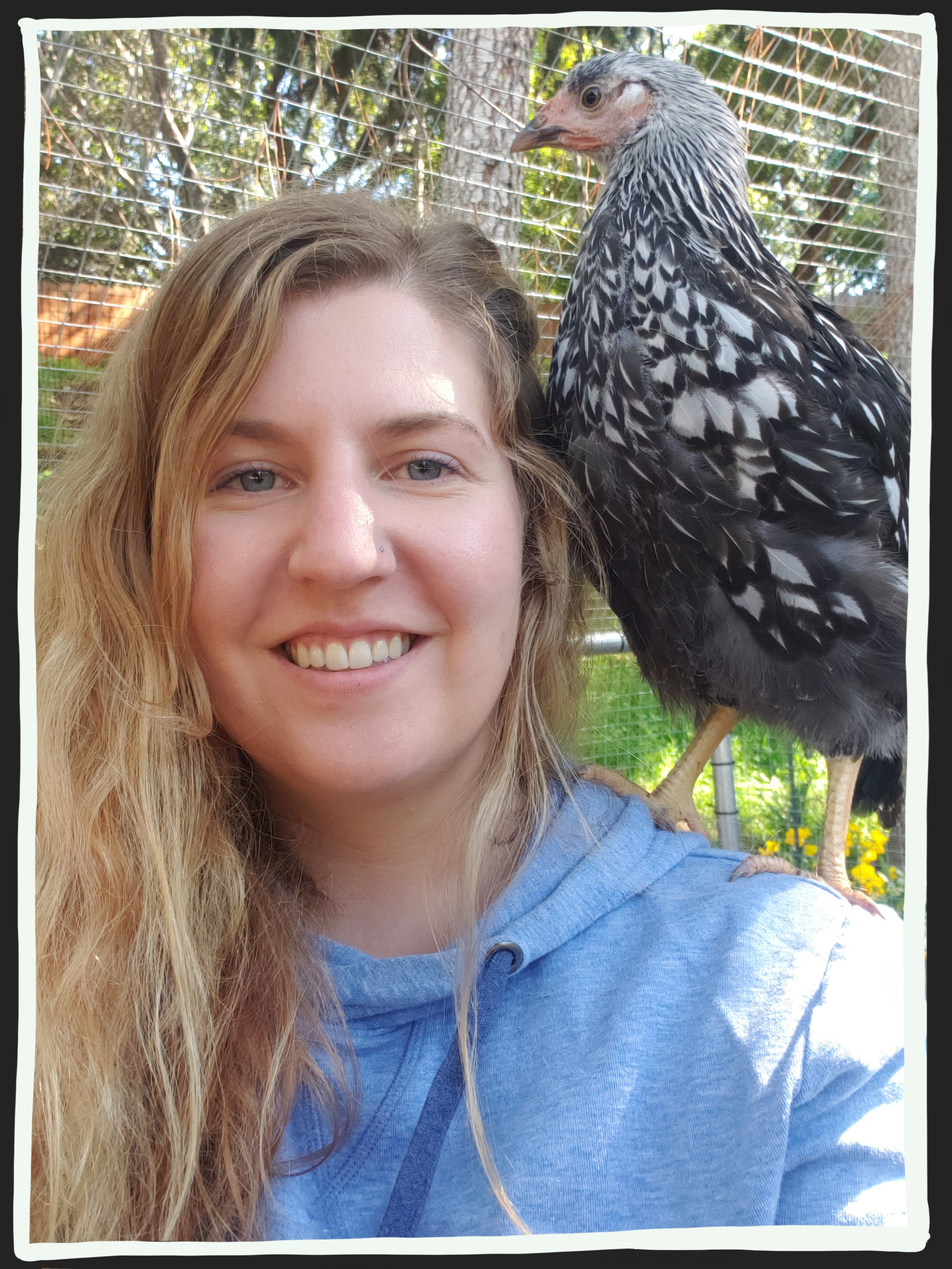
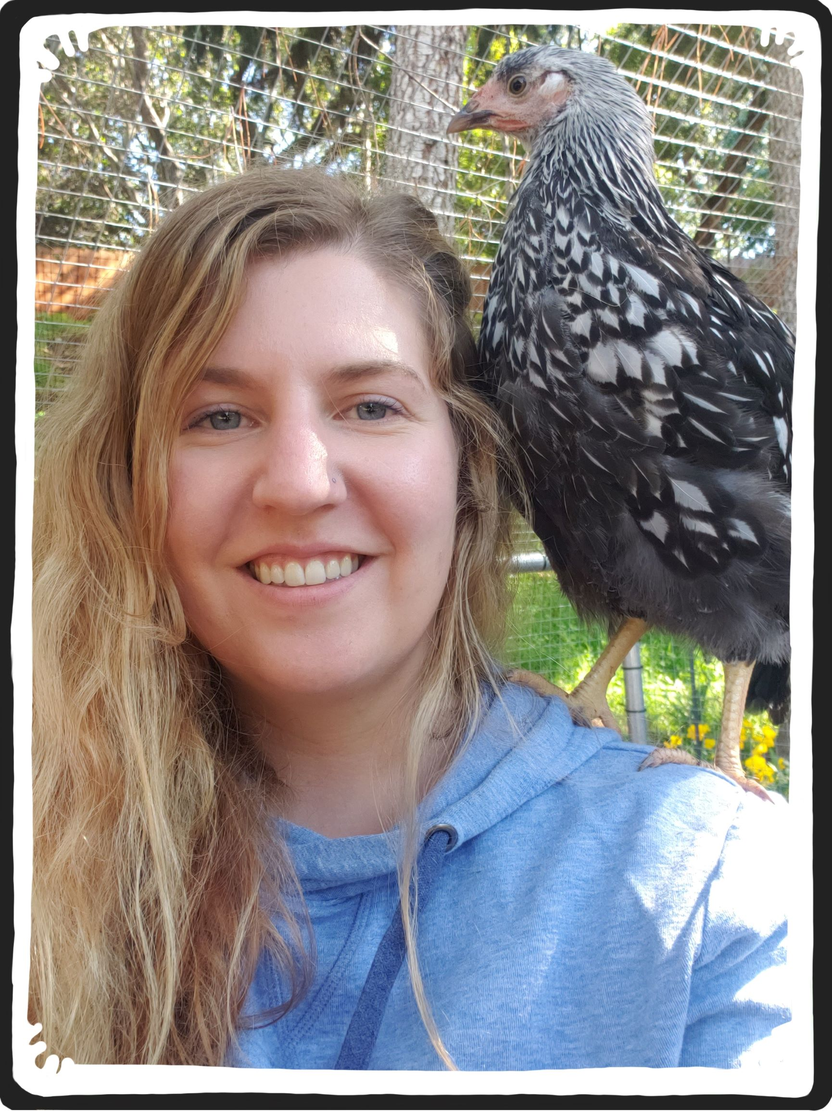
sidebar text alignments

diff --git a/index.html b/index.html
@@ -206,7 +206,7 @@ h1 {
       <div class="sidebar">
         <div class="aboutme">about me
           <img src="aboutmepic.jpeg"></div>
-        <div class="aboutmedes"><b><i>Hi, I'm Sarah</i></b>, and I'm a chicken tender, beekeeper, sourdough baker, and all-around homesteading enthusiast in California.<br>Add in your email below for weekly updates on tips, projects, recipes and more. Happy farming!</div>
+        <div class="aboutmedes"><b><i>Hi, I'm Sarah.</i></b>I'm a chicken tender, beekeeper, artist, sourdough baker, and all-around homesteading enthusiast.<br>Welcome, and happy homesteading!</div>
         <div class="newsletter">
         <form action="https://poppysseedsfarm.us7.list-manage.com/subscribe/post?u=c043bed65c3121f9c7f7b87df&amp;id=57a455e980" method="post" id="mc-embedded-subscribe-form" name="mc-embedded-subscribe-form" class="validate" target="_blank" novalidate>
 	    <input type="email" value="" name="EMAIL" class="email" id="mce-EMAIL" placeholder="email address" required>
@@ -231,14 +231,14 @@ h1 {
 
     .aboutme {
       font-family: Beth Ellen;
-      font-size: 50px;
+      font-size: 40px;
       color: #4A4A4A;
       text-align: center;
-      margin-top: -15px;
+      margin-top: -20px;
     }
 
     .aboutme img {
-      width: 225px;
+      width: 240px;
       display: block;
       margin: auto;
       margin-top: -5px;
